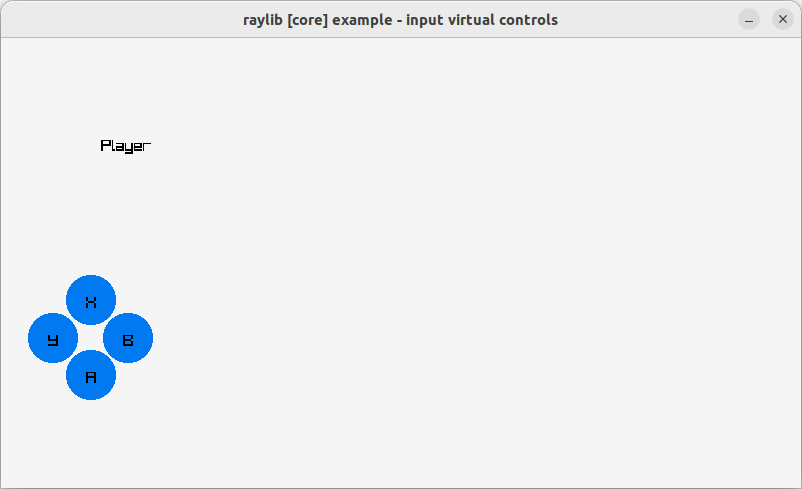
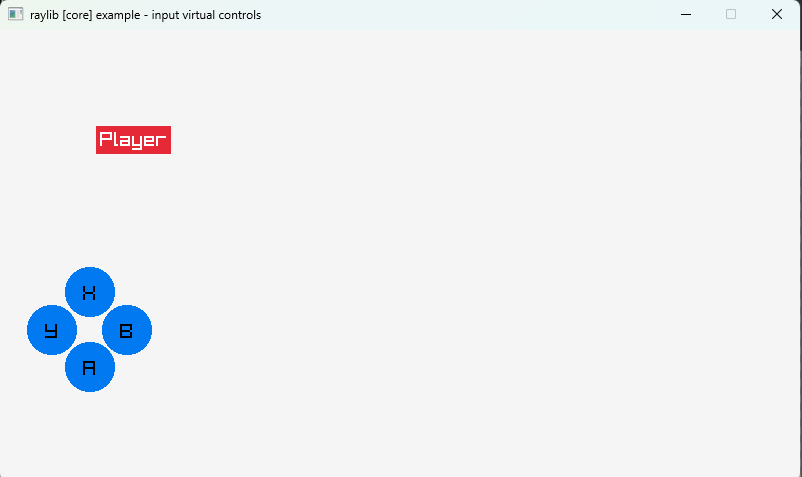
Add input_virtual_controls to MSVC projects (#4433)
Fix input_virtual_controls example to use correct default font sizes

diff --git a/examples/core/core_input_virtual_controls.c b/examples/core/core_input_virtual_controls.c
@@ -54,8 +54,8 @@ int main(void)
     // Main game loop
     while (!WindowShouldClose())    // Detect window close button or ESC key
     {
-	// Update 
-	//--------------------------------------------------------------------------
+    // Update 
+    //--------------------------------------------------------------------------
         dpadKeydown = -1; //reset
         float inputX=0;
         float inputY=0;
@@ -89,10 +89,9 @@ int main(void)
             case 3: playerY += 50*GetFrameTime();
             default:;
         };
-	//--------------------------------------------------------------------------
-	    
-	// Draw 
-	//--------------------------------------------------------------------------
+    //--------------------------------------------------------------------------
+    // Draw 
+    //--------------------------------------------------------------------------
        BeginDrawing();
             ClearBackground(RAYWHITE);
             for(int i=0;i<4;i++)
@@ -103,14 +102,15 @@ int main(void)
                 {
                     //draw label
                     DrawText(TextSubtext(dpadLabel,i,1),
-                             dpadCollider[i][0]-5,
-                             dpadCollider[i][1]-5,16,BLACK);
+                             dpadCollider[i][0]-7,
+                             dpadCollider[i][1]-8,20,BLACK);
                 }
-
             }
-            DrawText("Player",playerX,playerY,16,BLACK);
+
+            DrawRectangle(playerX-4,playerY-4,75,28,RED);
+            DrawText("Player",playerX,playerY,20,WHITE);
         EndDrawing();
-	//--------------------------------------------------------------------------
+    //--------------------------------------------------------------------------
     }
 
     // De-Initialization
